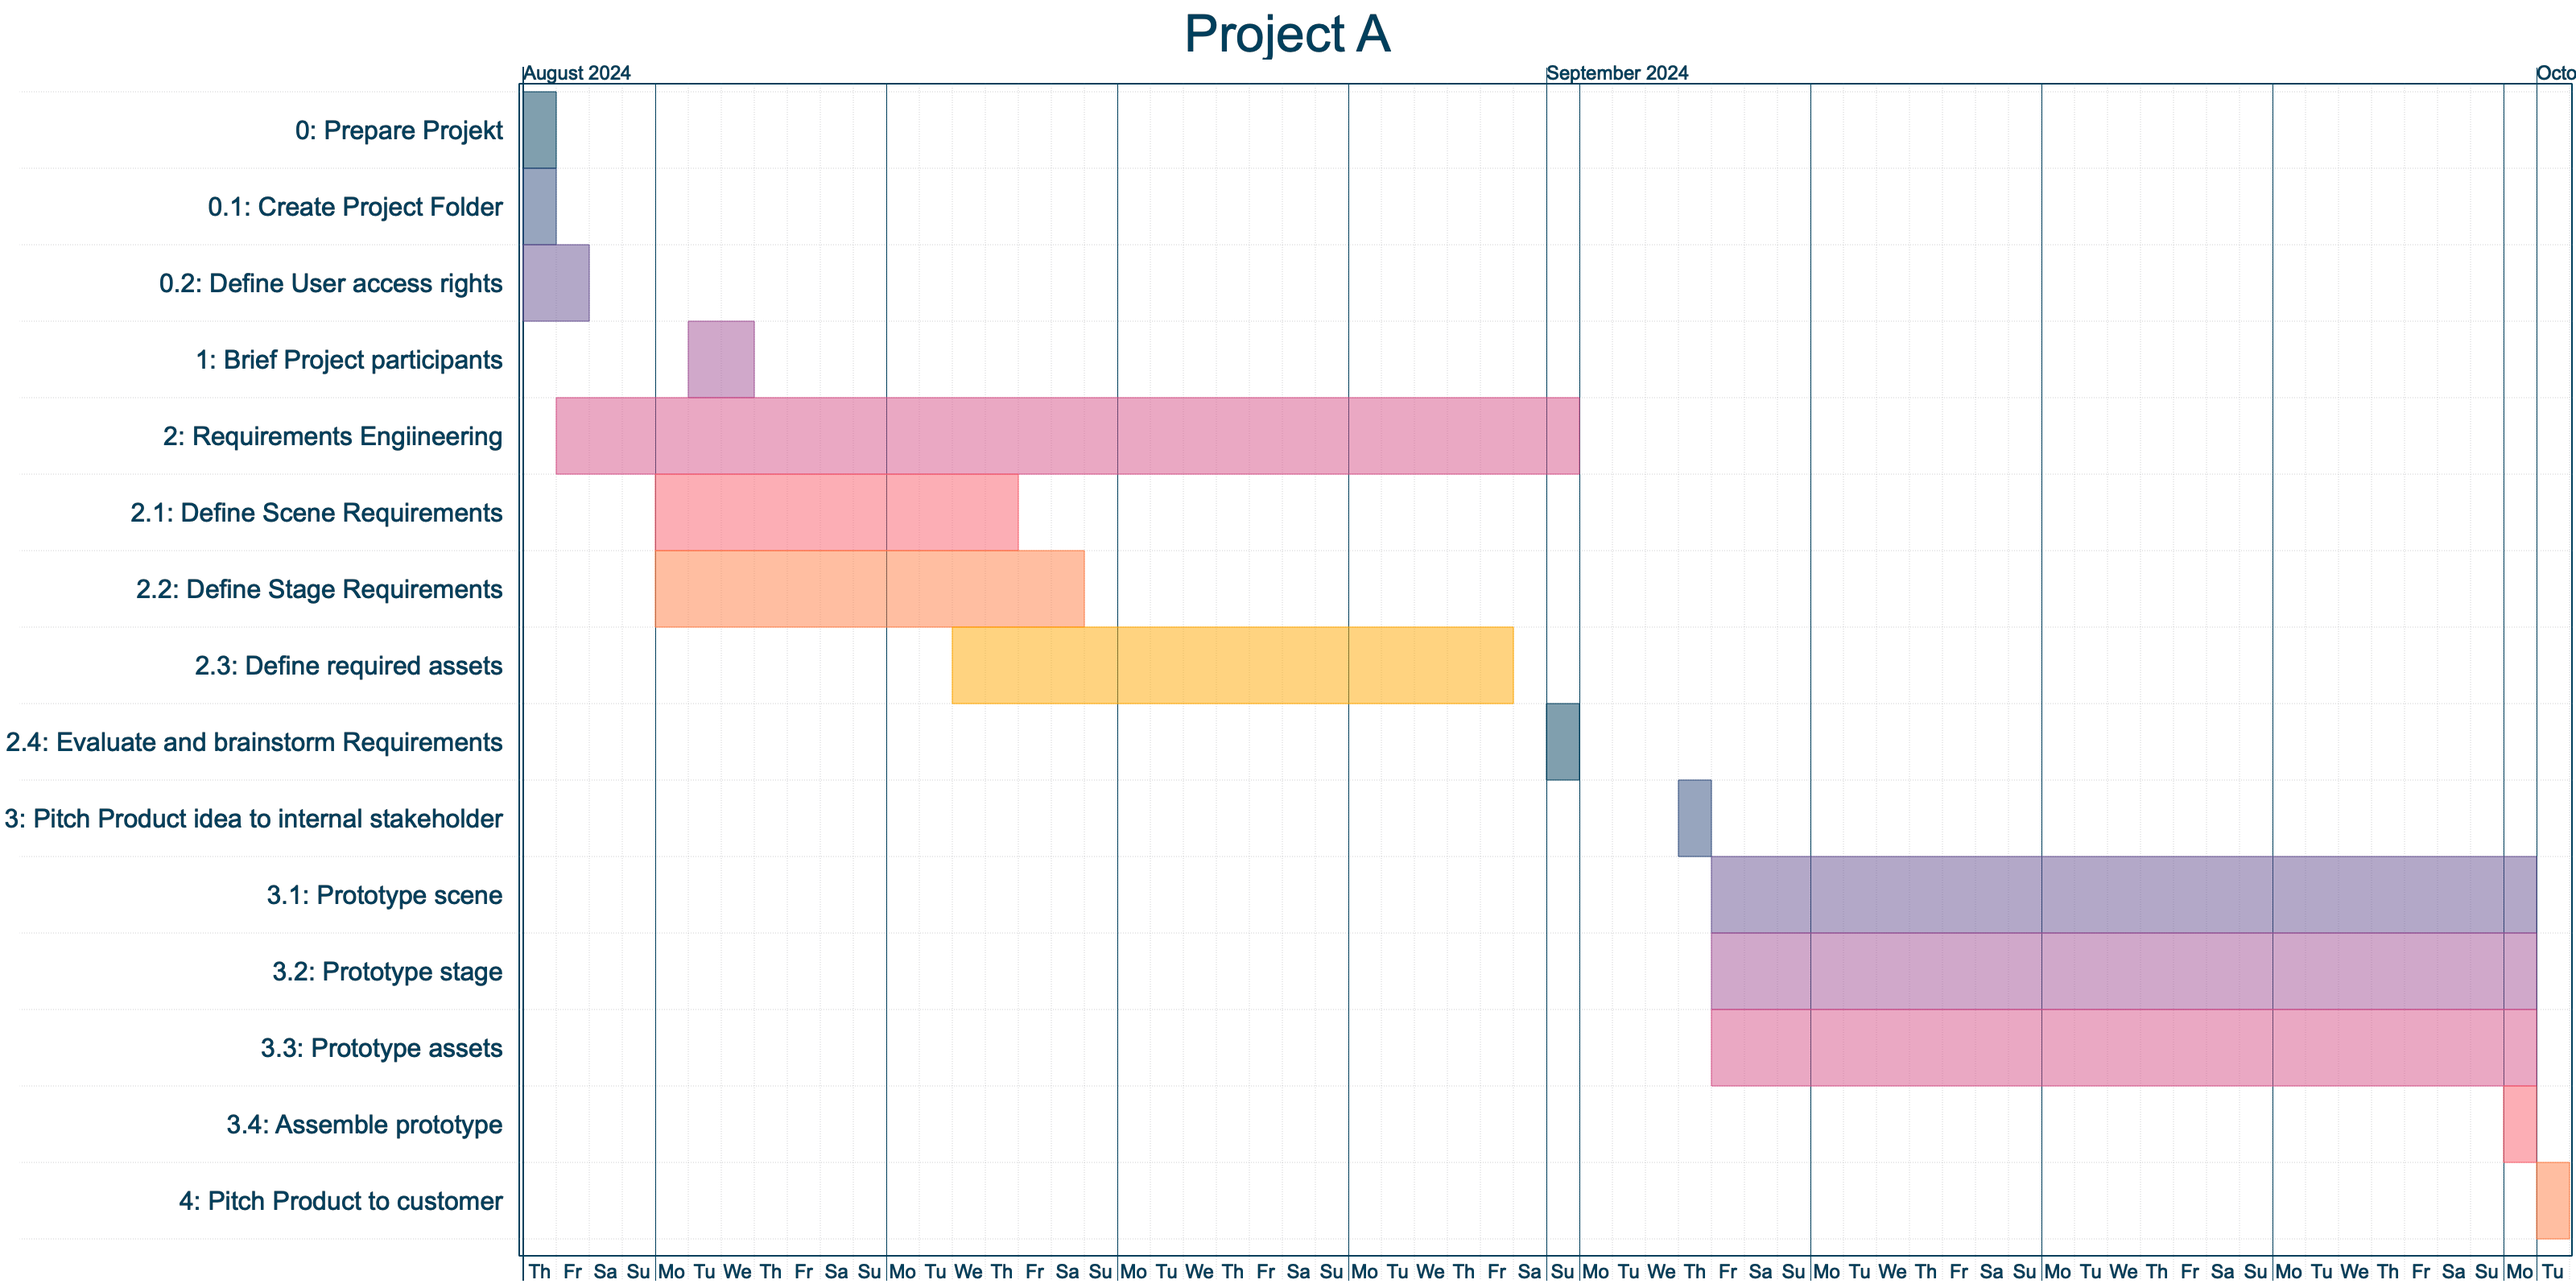
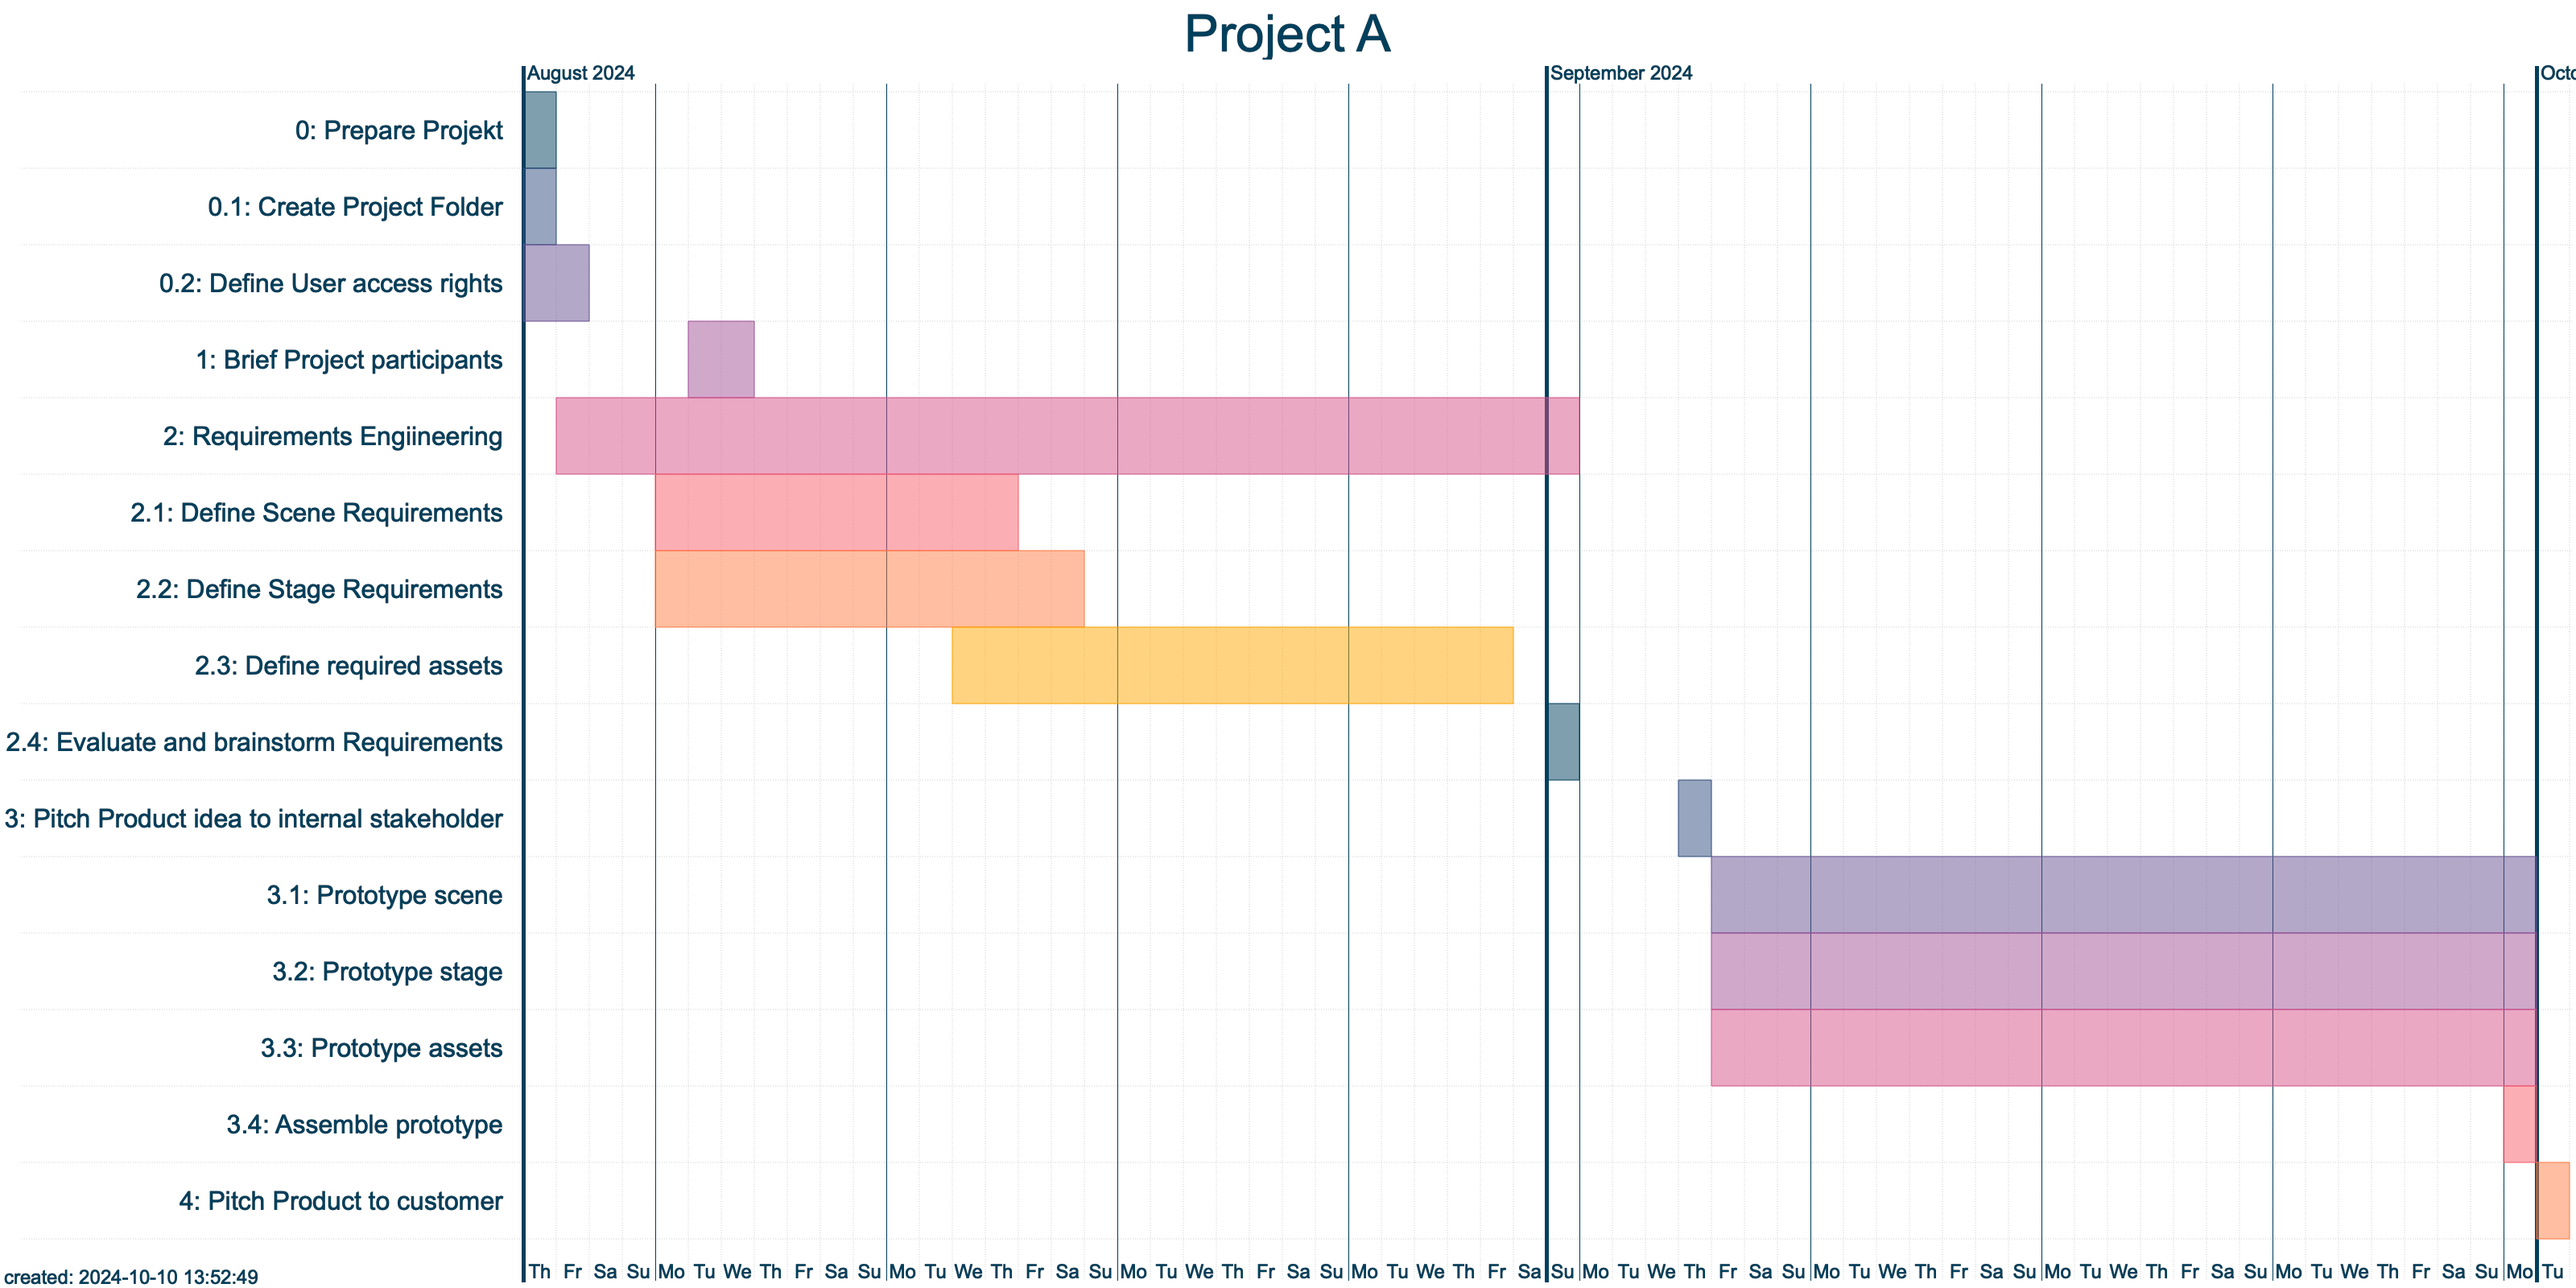
added highlight-properties, added horizontal padding to month-annotation, added a creation-string.

diff --git a/ganttmaker.py b/ganttmaker.py
@@ -230,6 +230,9 @@ class Dataloader:
 
 class Figure:
     def __init__(self):
+        self._time_highlightline_width = (0.75, 2.5)
+        self._time_highlightline_color = None
+        self.time_highlightline_color = QColor('red')
         self._background_color = None
         self.background_color = QColor('transparent')
         self._axes_color = None
@@ -258,6 +261,28 @@ class Figure:
         self.legend_font = QFont("Arial", 12)
         self._legend_color = None
         self.legend_color = QColor('black')
+
+    @property
+    def time_highlightline_width(self) -> tuple[float, float]:
+        return self._time_highlightline_width
+
+    @time_highlightline_width.setter
+    def time_highlightline_width(self, width: tuple[int, int]):
+        if not isinstance(width, tuple):
+            raise TypeError("time_highlightline_width must be a tuplpe of floats")
+        elif len(width) != 2:
+            raise ValueError("time_highlightline_width must be a tuple of two floats")
+        self._time_highlightline_width = width
+
+    @property
+    def time_highlightline_color(self):
+        return self._time_highlightline_color
+
+    @time_highlightline_color.setter
+    def time_highlightline_color(self, color: QColor):
+        if not isinstance(color, QColor):
+            raise TypeError("time_highlightline_color must be a QColor object")
+        self._time_highlightline_color = color
 
     @property
     def background_color(self):
@@ -463,7 +488,7 @@ class Figure:
         box_layer = self.draw_title(box_layer, painter, title_pen, figure_start, self.title)
         box_layer = self.draw_legend(box_layer, painter, legend_pen, figure_start, task_height, self.legend_font)
         grid_layer = self.draw_grid_layer(figure_start, grid_pen, painter, task_width, task_height, figure_width)
-        grid_layer = self.draw_monday_lines(grid_layer, figure_start, box_pen, painter, task_width, task_height)
+        grid_layer = self.draw_monday_lines(grid_layer, figure_start, painter, task_width)
         graph_layer = self.draw_tasks(figure_start, graph_pen, self.task_brush_saturation, painter, task_height, task_width)
         axes_layer = self.draw_xaxis(figure_start, figure_width, figure_height, task_width,painter, axes_pen, self.axes_font)
 
@@ -476,20 +501,18 @@ class Figure:
         painter.end()
         image.save(self.export_file)
 
-    def draw_monday_lines(self, layer, figure_start, pen, painter, task_width, task_height):
+    def draw_monday_lines(self, layer, figure_start, painter, task_width):
+        monday_pen = QPen(self.time_highlightline_color, self.time_highlightline_width[0], Qt.SolidLine)
+        monthly_pen = QPen(self.time_highlightline_color, self.time_highlightline_width[1], Qt.SolidLine)
         painter.begin(layer)
-        pen.setWidth(0.75*pen.width())
-        painter.setPen(pen)
         dates = (self._loader._data['Plan-End'].max().date() - self.start_date).days + 1
         for i in range(dates):
             x = int(figure_start[0] + i * task_width + self.render_metrics.horizontal_padding)
             if (self.start_date + datetime.timedelta(days=i)).weekday() == 0:
-                pen.setWidth(0.75 * pen.width())
-                painter.setPen(pen)
+                painter.setPen(monday_pen)
                 painter.drawLine(x, figure_start[1], x, self.canvas_size[1] - self.render_metrics.vertical_padding)
             if (self.start_date + datetime.timedelta(days=i)).day == 1:
-                pen.setWidth(2.5 * pen.width())
-                painter.setPen(pen)
+                painter.setPen(monthly_pen)
                 painter.drawLine(x, figure_start[1] - self.render_metrics.axis_height, x, self.canvas_size[1] - self.render_metrics.vertical_padding)
         painter.end()
         return layer
@@ -515,7 +538,7 @@ class Figure:
                 text)
             if date.day == 1:
                 painter.drawText(
-                    x,
+                    x + self.render_metrics.horizontal_padding,
                     (start[1]
                      - self.render_metrics.axis_height
                      - self.render_metrics.axis_padding
@@ -526,7 +549,16 @@ class Figure:
                      + self.render_metrics.title_padding),
                     Qt.AlignmentFlag.AlignLeft | Qt.AlignmentFlag.AlignBottom,
                     date.strftime('%B %Y'))
+        painter.drawText(
+            self.render_metrics.horizontal_padding,
+            self.canvas_size[1] - self.render_metrics.vertical_padding - self.render_metrics.axis_height,
+            self.canvas_size[0] - self.render_metrics.horizontal_padding * 2,
+            self.render_metrics.axis_height + self.render_metrics.vertical_padding,
+            Qt.AlignmentFlag.AlignLeft | Qt.AlignmentFlag.AlignBottom,
+            'created: ' + datetime.datetime.now().strftime('%Y-%m-%d %H:%M:%S')
+        )
         painter.end()
+
         return axes_layer
 
     def draw_tasks(self, figure_start: tuple[int, int], task_pen: QPen, brush_saturation: int, painter: QPainter, task_height: int, task_width: int):

diff --git a/example_usage.py b/example_usage.py
@@ -25,9 +25,11 @@ figure.title_color = QColor(ganttmaker._colors[0])
 # set axis properties
 figure.axes_font = QFont('Arial', 24)
 figure.axes_color = QColor(ganttmaker._colors[0])
+figure.time_highlightline_color = QColor(ganttmaker._colors[0])
+figure.time_highlightline_width = (1, 5)
 
 # set box and background properties
-figure.box_color = QColor(ganttmaker._colors[0])
+figure.box_color = QColor(QColor('transparent'))
 figure.background_color = QColor('transparent')
 
 # set legend properties
